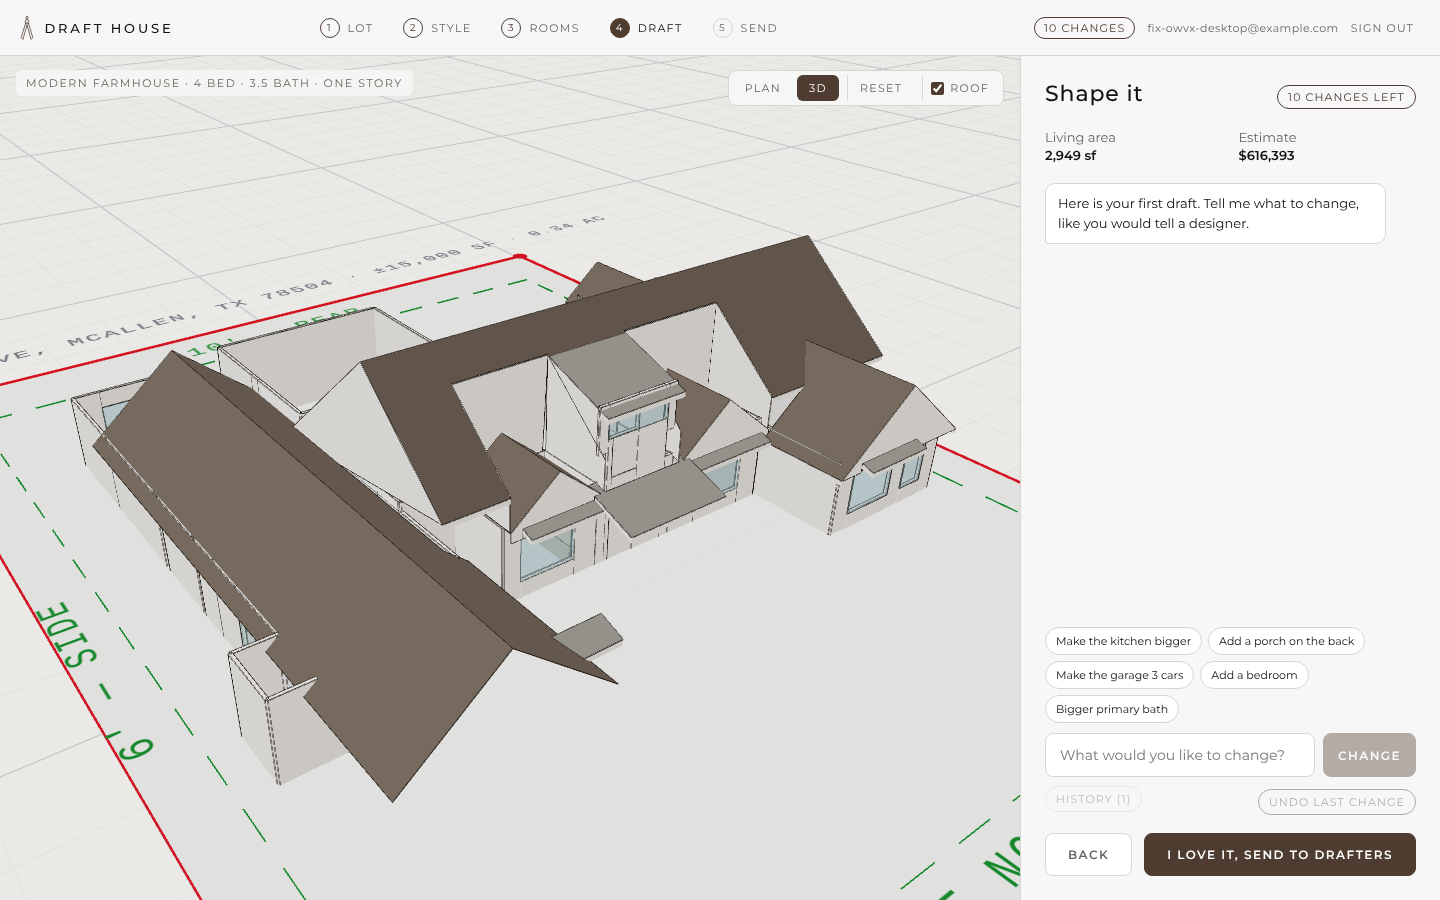
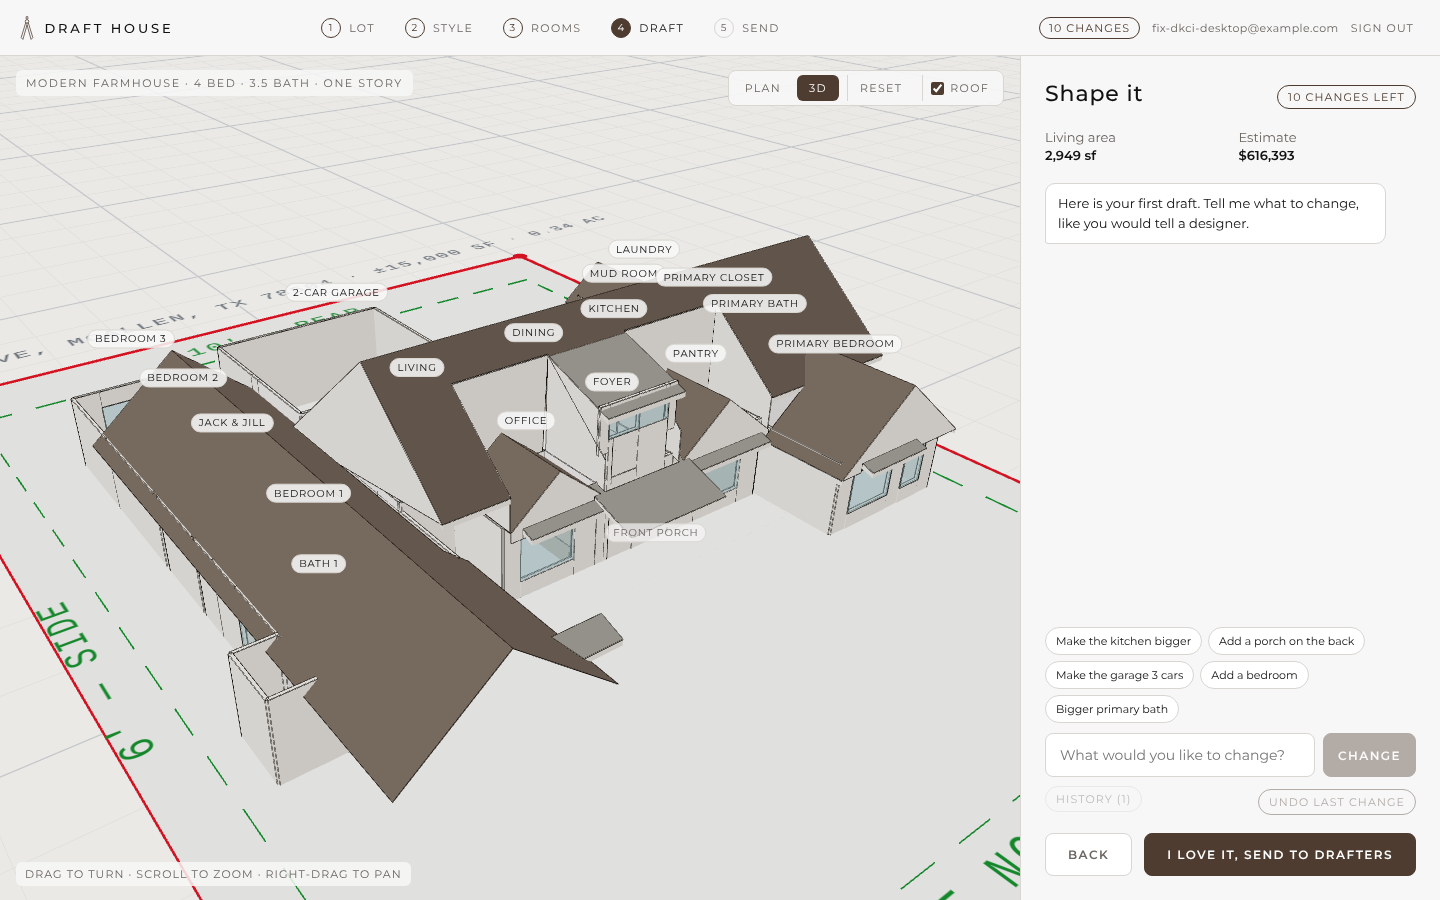
Fix round 1, items 15 to 18: interpret never answers 503, bad-address hint, honest rooms sample, 3D room tags
15 /api/interpret answers 200 with the basic rules' diff when the Claude key
is missing or Claude times out, refuses or fails (source "fallback", reason
says why); the guest path now matches the project path. Tests on both the
accounts and the server suites. A stub op the interpreter sometimes adds
beside the real one (a resize with no size, a move with no distance) is
dropped or completed from the room's current size instead of sinking the
change (normalizeOps, tested).

16 A short or number-less address shows what to type under the field; a lot
and subdivision or an uploaded plat count too.

17 The recent-build sample says it sets the rooms below, shows a check once
they match, and lists the garage; the stories row explains the one-story kit.

18 Rooms wear a tag that faces the viewer in 3D (above the roof when it is
on); the 3D hint reads "Drag to turn, scroll to zoom, right-drag to pan".

The report (docs/FIX-ROUND-1.md) and the after screenshots are updated.

Claude-Session: https://claude.ai/code/session_01R9nZixATaRF2JVPZiqt7bd

diff --git a/src/draft/screens/Program.jsx b/src/draft/screens/Program.jsx
@@ -22,6 +22,7 @@ export default function Program({ program, style, lot, onChange, onNext, onBack 
   const set = (k) => (v) => onChange({ ...program, [k]: v })
   const toggle = (k) => () => onChange({ ...program, [k]: !program[k] })
   const ref = kit.reference
+  const matchesRef = !!ref && ['beds', 'baths', 'halfBath', 'suite2', 'office', 'garage', 'stories', 'sqft', 'frontPorch', 'rearPorch'].every((k) => (program[k] ?? false) === (ref.program[k] ?? false))
   // the real check: the first draft is drafted and run through the rules on this lot
   const check = useMemo(() => fitsLot(program, style, L), [program, style, L])
   const minSqft = check.draft.minSqft || limits.sqft[0]
@@ -35,11 +36,14 @@ export default function Program({ program, style, lot, onChange, onNext, onBack 
         <p className="muted">{style.name}. Change anything later in plain language.</p>
       </div>
       {ref && (
-        <button className="preset" onClick={() => onChange({ ...ref.program })}>
-          <span>Start from a recent build</span>
+        <button className={'preset' + (matchesRef ? ' on' : '')} onClick={() => onChange({ ...ref.program })} aria-pressed={matchesRef}>
+          <span>{matchesRef ? 'Rooms set to a recent build' : 'Use the rooms of a recent build'}</span>
           <b>{ref.name}</b>
           <small>
-            {ref.program.beds} bed · {ref.program.baths}.5 bath · {sf(ref.livingSf)}
+            {ref.program.beds} bed · {ref.program.baths}
+            {ref.program.halfBath ? '.5' : ''} bath · {ref.program.garage ? `${ref.program.garage}-car · ` : 'no garage · '}
+            {sf(ref.livingSf)}
+            {matchesRef ? ' · this is what you will get' : ' · tap to set the rooms below to this; the rooms below are what you will get'}
           </small>
         </button>
       )}
@@ -50,7 +54,7 @@ export default function Program({ program, style, lot, onChange, onNext, onBack 
         {oneStory ? (
           <div className="stepper">
             <span className="stepper-label">Stories</span>
-            <span className="muted small">One story in this style</span>
+            <span className="muted small">1 · this style's kit is a one-story plan; two-story styles come with their kits</span>
           </div>
         ) : (
           <Stepper label="Stories" value={program.stories} min={limits.stories[0]} max={limits.stories[1]} onChange={set('stories')} />

diff --git a/src/draft/lib/interpret.js b/src/draft/lib/interpret.js
@@ -3,7 +3,7 @@
 // the regex fallback takes over when the API is unreachable or unsure.
 import { api } from './api.js'
 import { kitFor, lotOf } from './layout.js'
-import { validateOps, applyOps, regexOps, summarizeRooms } from './ops.js'
+import { validateOps, applyOps, regexOps, summarizeRooms, normalizeOps } from './ops.js'
 import { checkRules } from './rules.js'
 
 const MIN_CONFIDENCE = 0.5
@@ -11,7 +11,7 @@ const MIN_CONFIDENCE = 0.5
 let offlineUntil = 0
 
 /** Calls the office interpreter. Throws when it cannot. */
-export async function claudeInterpreter({ text, rooms, program, kit }) {
+export async function claudeInterpreter({ text, rooms, program, kit, lot }) {
   if (Date.now() < offlineUntil) throw Object.assign(new Error('interpreter not configured'), { unconfigured: true })
   let res
   try {
@@ -19,6 +19,7 @@ export async function claudeInterpreter({ text, rooms, program, kit }) {
     text,
     rooms: summarizeRooms(rooms),
     program,
+    lot,
     kit: { id: kit.id, name: kit.name, kinds: Object.fromEntries(Object.entries(kit.rooms).map(([k, t]) => [k, { name: t.name, w: t.w, d: t.d, zone: t.zone }])), minSize: kit.rules?.minSize || {} },
     })
   } catch (e) {
@@ -39,7 +40,8 @@ export async function interpretRequest(text, rooms, program, style, opts = {}) {
   let diff
   let source = 'claude'
   try {
-    diff = await interpreter({ text, rooms, program, kit })
+    diff = await interpreter({ text, rooms, program, kit, lot: opts.lot ? { spec: opts.lot.spec } : undefined })
+    if (diff.source === 'fallback' || diff.source === 'timeout') source = diff.source // the office answered with the basic rules
   } catch (e) {
     diff = regexOps(text, rooms, kit, lotOf(opts.lot))
     source = /abort|timed? ?out|504/i.test(String(e?.name || '') + String(e?.message || '')) ? 'timeout' : 'fallback'
@@ -52,6 +54,7 @@ export async function interpretRequest(text, rooms, program, style, opts = {}) {
 /** The deterministic part: confidence gate, shape check, apply, rules. */
 export function decide(diff, rooms, program, style, kit, source, lot) {
   const L = lotOf(lot)
+  diff = { ...diff, ops: normalizeOps(diff.ops, rooms) }
   if ((diff.confidence ?? 1) < MIN_CONFIDENCE || !diff.ops?.length) {
     return { applied: false, rooms, reply: diff.reply || 'I am not sure what to change. Can you say it another way?', source, ops: [] }
   }

diff --git a/src/draft/HouseScene.jsx b/src/draft/HouseScene.jsx
@@ -3,7 +3,7 @@
 import { useMemo } from 'react'
 import * as THREE from 'three'
 import { Canvas } from '@react-three/fiber'
-import { OrbitControls, Edges, Line } from '@react-three/drei'
+import { OrbitControls, Edges, Line, Html } from '@react-three/drei'
 import SitePlan from '../components/SitePlan.jsx'
 import { FlatLabel } from '../components/labels.jsx'
 import { DEFAULT_LOT } from './lib/lot.js'
@@ -228,7 +228,18 @@ function Room({ r, highlight, labels, lot }) {
   )
 }
 
-export default function HouseScene({ rooms = [], style, view = '3d', highlightKind, controlsRef, showHouse = true, showRoof = true, lot = DEFAULT_LOT }) {
+/** A room's name in the 3D view: a small tag above the room that always faces the viewer. */
+function RoomTag({ r, highlight, showRoof }) {
+  const [x, z] = r.center
+  const y = r.open ? 2 : showRoof ? (r.plate || 9) + 7 : (r.plate || 9) + 1.5
+  return (
+    <Html position={[x, y, z]} center zIndexRange={[10, 0]} style={{ pointerEvents: 'none' }}>
+      <span className={'room-tag' + (highlight ? ' on' : '') + (r.open ? ' open' : '')}>{r.name}</span>
+    </Html>
+  )
+}
+
+export default function HouseScene({ rooms = [], style, view = '3d', highlightKind, controlsRef, showHouse = true, showRoof = true, lot = DEFAULT_LOT, tags = true }) {
   const L = lot && lot.envelope ? lot : DEFAULT_LOT
   const cams = useMemo(() => camerasFor(L, rooms), [L, rooms.length])
   const cam = cams[view] || cams['3d']
@@ -250,6 +261,7 @@ export default function HouseScene({ rooms = [], style, view = '3d', highlightKi
       <directionalLight position={[-150, 300, -200]} intensity={1.4} />
       <SitePlan lot={L} />
       {showHouse && roomList.map((r) => <Room key={r.id} r={r} highlight={r.kind === highlightKind} labels={view === 'top'} lot={L} />)}
+      {showHouse && tags && view !== 'top' && roomList.filter((r) => Math.min(r.w, r.d) >= 5).map((r) => <RoomTag key={'tag-' + r.id} r={r} highlight={r.kind === highlightKind} showRoof={showRoof} />)}
       {showHouse && roomList.length > 0 && <Walls rooms={rooms} kit={kit} centre={centre} lot={L} />}
       {showHouse && hasPlan && rooms.filter((e) => e.kind === 'door').map((e) => <Door key={e.id} e={e} centre={centre} lot={L} />)}
       {showHouse && hasPlan && rooms.filter((e) => e.kind === 'window').map((e) => <Window key={e.id} e={e} centre={centre} lot={L} />)}

diff --git a/src/draft/screens/Start.jsx b/src/draft/screens/Start.jsx
@@ -13,7 +13,11 @@ export default function Start({ user, projects = [], onSignedIn, onSkip, onResum
   const [name, setName] = useState(user?.name || '')
   const [file, setFile] = useState(null)
   const [guest, setGuest] = useState(false)
-  const ready = address.trim().length > 4 || file
+  // a street address (number, street, city) or a lot and subdivision; anything shorter gets a hint
+  const a = address.trim()
+  const looksLikeAddress = (/\d/.test(a) && /\s/.test(a) && a.length >= 8) || /\blot\b/i.test(a)
+  const ready = looksLikeAddress || !!file
+  const hint = a && !looksLikeAddress && !file ? (a.length < 8 ? 'Type the full street address with the city, like 1300 W Nolana Ave, McAllen, TX.' : 'Add the street number and the city, like 1300 W Nolana Ave, McAllen, TX. Or upload the plat.') : ''
   const canStart = !!user || guest
 
   return (
@@ -87,8 +91,13 @@ export default function Start({ user, projects = [], onSignedIn, onSkip, onResum
           )}
           <label className="field">
             <span>Address</span>
-            <input id="start-address" placeholder="Street address, or lot and subdivision" value={address} onChange={(e) => setAddress(e.target.value)} />
+            <input id="start-address" placeholder="Street address, or lot and subdivision" value={address} onChange={(e) => setAddress(e.target.value)} aria-describedby="start-address-hint" />
           </label>
+          {hint && (
+            <p id="start-address-hint" className="fine warn" style={{ marginTop: -6 }}>
+              {hint}
+            </p>
+          )}
           <div className="or">or</div>
           <label className={'drop' + (file ? ' has-file' : '')}>
             <input type="file" accept=".pdf,.png,.jpg,.jpeg" onChange={(e) => setFile(e.target.files?.[0] || null)} hidden />

diff --git a/src/draft/lib/ops.js b/src/draft/lib/ops.js
@@ -8,6 +8,37 @@ import { FIXTURE_H, FIXTURE_NAME, WINDOW_SILL, WINDOW_HEAD } from '../../kits/mo
 export const OPS = ['resize', 'add', 'remove', 'move']
 const q = (v) => Math.round(v * 4) / 4
 
+/**
+ * Tidy a diff before it is checked: a resize missing one side keeps the room's current side, a move
+ * missing an axis moves 0 on it, and ops with nothing in them are dropped. The interpreter sometimes
+ * adds such a stub beside the real op; the client should not lose the change over it.
+ */
+export function normalizeOps(ops, rooms) {
+  if (!Array.isArray(ops)) return ops
+  const byId = Object.fromEntries(rooms.filter(isRoom).map((r) => [r.id, r]))
+  return ops
+    .map((o) => {
+      if (!o || typeof o !== 'object') return o
+      if (o.op === 'resize') {
+        const r = byId[o.room]
+        if (!r) return o
+        const w = o.w > 0 ? o.w : r.w
+        const d = o.d > 0 ? o.d : r.d
+        if (!(o.w > 0) && !(o.d > 0)) return null
+        return { ...o, w, d }
+      }
+      if (o.op === 'move') {
+        const dx = Number.isFinite(o.dx) ? o.dx : 0
+        const dy = Number.isFinite(o.dy) ? o.dy : 0
+        if (!dx && !dy) return null
+        return { ...o, dx, dy }
+      }
+      if (o.op === 'add' && !o.kind) return null
+      return o
+    })
+    .filter(Boolean)
+}
+
 /** Shape check only. Rules come later. */
 export function validateOps(ops, rooms, kit) {
   const errors = []

diff --git a/src/draft/draft.css b/src/draft/draft.css
@@ -366,3 +366,8 @@ input[type='email'], input[type='number'], input[type='search'], input[type='tel
 }
 .viewport-hint { position: absolute; left: 16px; bottom: 14px; font-size: 11px; letter-spacing: 0.1em; text-transform: uppercase; color: var(--brand-muted); background: rgba(247,247,247,0.85); padding: 5px 9px; border-radius: 6px; }
 .msg.you.undone { opacity: 0.55; text-decoration: line-through; }
+.room-tag { display: inline-block; white-space: nowrap; font-family: var(--brand-font); font-size: 10px; letter-spacing: 0.08em; text-transform: uppercase; color: var(--brand-ink); background: rgba(247,247,247,0.88); border: 1px solid var(--brand-hair); border-radius: 999px; padding: 2px 7px; transform: translateY(-50%); }
+.room-tag.on { background: var(--brand-brown); color: #fff; border-color: var(--brand-brown); }
+.room-tag.open { color: var(--brand-muted); background: rgba(247,247,247,0.7); }
+.preset.on { border-style: solid; background: #fff; }
+.preset.on span::before { content: '✓ '; }

diff --git a/src/draft/screens/Draft.jsx b/src/draft/screens/Draft.jsx
@@ -169,7 +169,7 @@ export default function Draft({ style, program, rooms, setRooms, credits, setCre
             Roof
           </label>
         </div>
-        {view === 'top' && <div className="viewport-hint">Scroll to zoom · drag to pan</div>}
+        <div className="viewport-hint">{view === 'top' ? 'Scroll to zoom · drag to pan' : 'Drag to turn · scroll to zoom · right-drag to pan'}</div>
       </div>
       <aside className="side chat">
         <div className="side-head">

diff --git a/docs/FIX-ROUND-1.md b/docs/FIX-ROUND-1.md
@@ -1,6 +1,6 @@
 # Fix round 1 (from the live test of drafthouse.netlify.app)
 
-Every item from the round, what was done, and where. Verified on 2026-11-17 with `npm test` (81 tests, 79 pass, 2 skipped live tests, 0 fail, with Postgres), `vite build` (clean), the IfcOpenShell check on a fresh Garza export (IFC4, 322 products, geometry for all 318 that carry any, 0 failures), `scripts/shot-flow.mjs` (the full client, drafter and office walk, 18 screenshots) and `scripts/shot-fix-round.mjs` (this round's screens at 1440 and 390 px, before and after).
+Every item from the round, what was done, and where. Verified on 2026-11-17 with `npm test` (83 tests, 81 pass, 2 skipped live tests, 0 fail, with Postgres), `vite build` (clean), the IfcOpenShell check on a fresh Garza export (IFC4, 322 products, geometry for all 318 that carry any, 0 failures), `scripts/shot-flow.mjs` (the full client, drafter and office walk, 18 screenshots) and `scripts/shot-fix-round.mjs` (this round's screens at 1440 and 390 px, before and after).
 
 Before screenshots come from a build of `main` as it was; after screenshots from this branch. Both in `docs/fix-round-1/`.
 
@@ -37,6 +37,15 @@ Before screenshots come from a build of `main` as it was; after screenshots from
 | 12 | Style step | yes | 81d9df5 | Styles without a kit are marked coming soon and cannot be picked; the step says which style is ready and the Next button says "Pick a style to continue". |
 | 13 | First screen | yes | 81d9df5 | 3D and plan previews, one line on what is free and what costs, a real "Try it without an account" button, email field styled like the name field, sign-in button always live with a plain message for a bad email, the repeated line removed (also from the office sign-in). |
 | 14 | 390 px | yes | 81d9df5 | Every step checked at 390 px (`docs/fix-round-1/after/phone-*.png`): header wraps, panels stack, inputs and buttons fit, tables shrink. |
+
+## Added after the strict retest (Nov 17)
+
+| # | Item | Done | Notes |
+|---|---|---|---|
+| 15 | `/api/interpret` answered 503 on every chat message in production | yes | When the Claude key is missing, or Claude times out, refuses or fails, the route answers 200 with the basic rules' diff (`source: "fallback"`, `reason` says why). The project route already did this; now the guest path does too. Tests in `test/accounts.test.mjs` and `test/server.test.mjs`. Also: a stub op the interpreter sometimes adds beside the real one (a resize with no size, a move with no distance) no longer sinks the change; it is dropped or completed from the room's current size (`normalizeOps`, tested). |
+| 16 | "asdf" greyed Find my lot out silently | yes | A short or number-less address shows "Type the full street address with the city, like 1300 W Nolana Ave, McAllen, TX" under the field; a lot and subdivision, or an uploaded plat, also count. `docs/fix-round-1/after/address-hint.png`. |
+| 17 | Rooms sample said 3 bed / 2,533 sf, the house was 4 bed / 2,800 sf | yes | The sample is a button that sets the rooms below to that build; it now says so ("tap to set the rooms below to this; the rooms below are what you will get"), shows a check and "this is what you will get" once they match, and lists the garage. The stories row reads "1 · this style's kit is a one-story plan; two-story styles come with their kits" instead of a greyed stepper. |
+| 18 | 3D room labels and a hint | yes | Every room over 5 ft wears a small tag above it that faces the viewer (lifted above the roof when the roof is on); the hint reads "Drag to turn · scroll to zoom · right-drag to pan" (the plan view keeps "Scroll to zoom · drag to pan"). `docs/fix-round-1/after/draft-first.png`. |
 
 ## Rules that changed, on purpose
 
